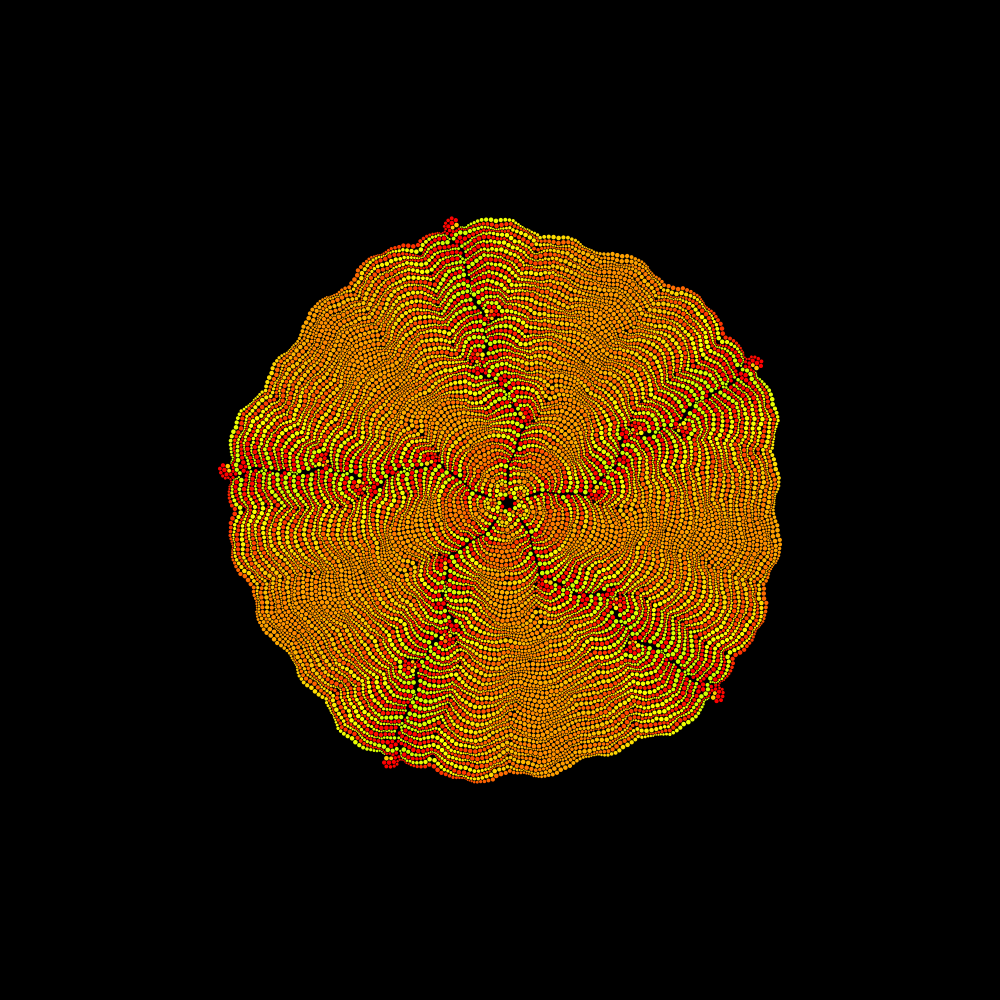
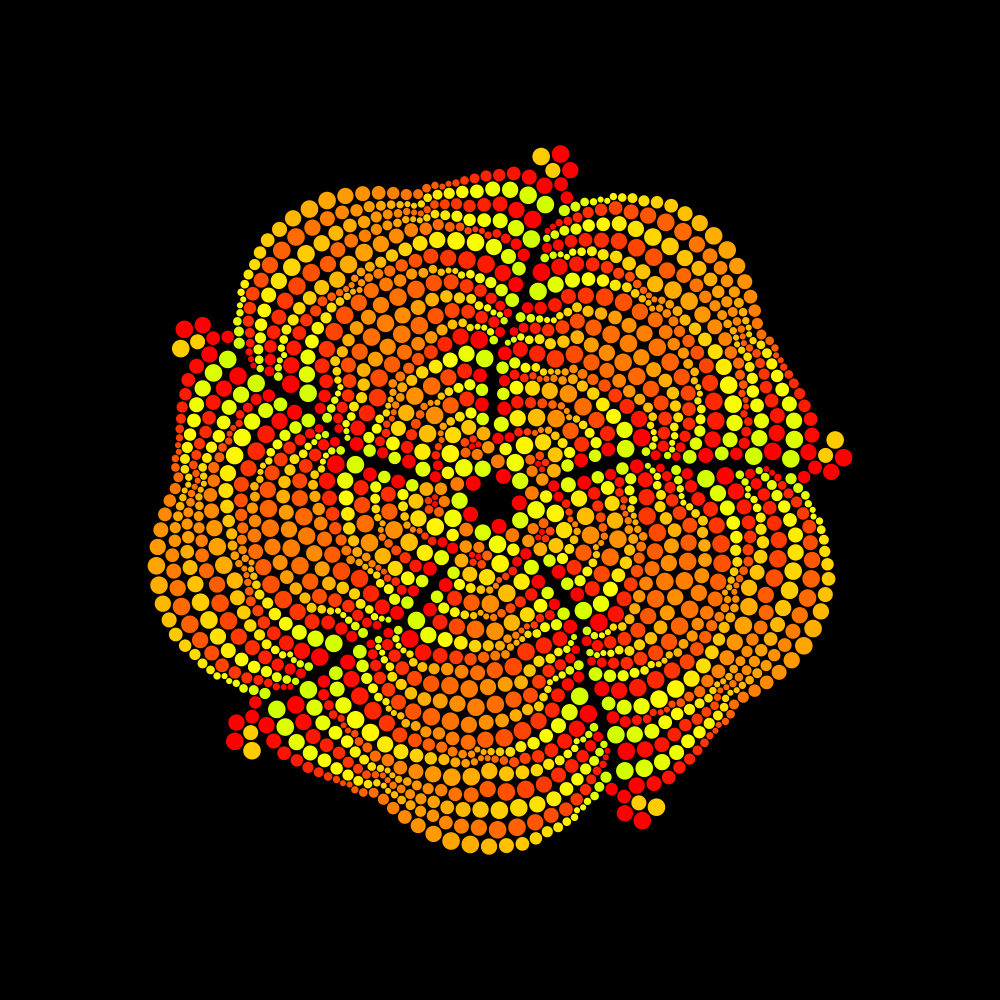
Update sequencer example

diff --git a/examples/main_circlepackingsequencer.py b/examples/main_circlepackingsequencer.py
@@ -2,7 +2,7 @@ from PVG     import *
 from PVGPACK import *
 import copy
 
-canvas = Canvas().background(Color.black())
+canvas = Canvas().margin(1.0).background(Color.black())
 
 quadtree   = QuadTree()
 poly       = Circle().scale(20).polygon(5).close()
